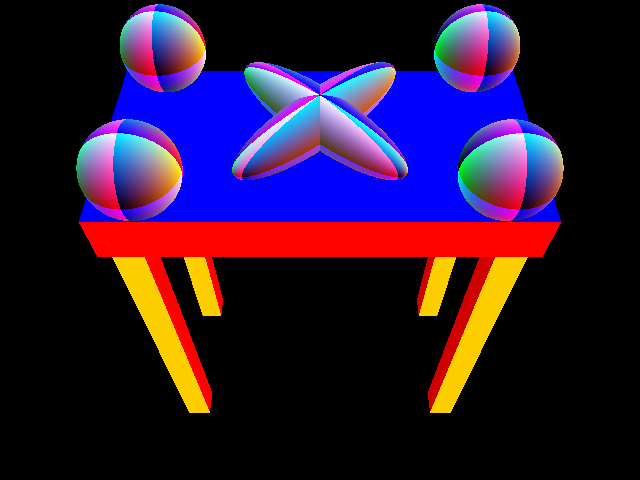
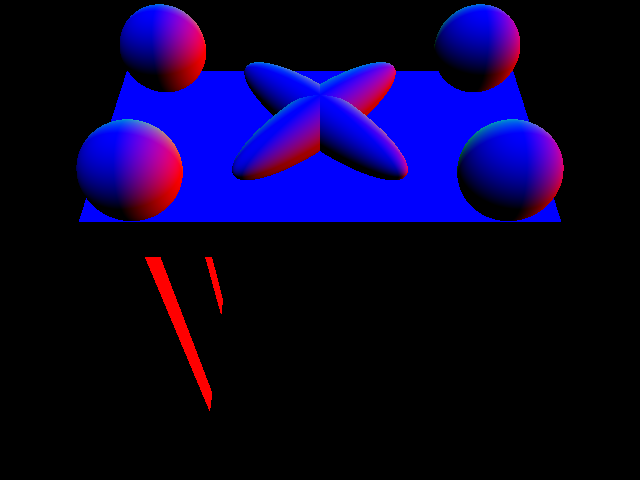
Normals should work correctly now

diff --git a/RayTracer/src/primitives/Triangle.java b/RayTracer/src/primitives/Triangle.java
@@ -49,11 +49,7 @@ public class Triangle extends Primitive {
 				&& isToTheLeftFromLine(2, 1, intersectionPoint)
 				&& isToTheLeftFromLine(0, 2, intersectionPoint);
 		if (isInside) {
-			Vector3 transformedIntersectionPoint = new Vector3(intersectionPoint);
-			Vector3 transformedNormal = new Vector3(this.normal);
-			//this.transformIntersectionObjectsToWorld(transformedIntersectionPoint, transformedNormal);
 			return new IntersectionInfo(distance, intersectionPoint, this.normal);
-			//return new IntersectionInfo(distance, transformedIntersectionPoint, transformedNormal);
 		} else {
 			return new IntersectionInfo(Double.POSITIVE_INFINITY, null, null);
 		}

diff --git a/RayTracer/src/primitives/Sphere.java b/RayTracer/src/primitives/Sphere.java
@@ -61,7 +61,8 @@ public class Sphere extends Primitive {
 		
 		Vector3 intersectionPoint = theRay.origin.add(theRay.direction
 				.multiply(resultDistance));
-		//intersectionPoint = transformVector(intersectionPoint, 1, this.transformationToWorldCoordiantes);
+		intersectionPoint = transformVector(intersectionPoint, 1, this.transformationToWorldCoordiantes);
+		intersectionPoint = transformVector(intersectionPoint, 1, this.transformationToWorldCoordiantes.inverse());
 		Vector3 normal = intersectionPoint.subtract(this.center);
 		normal.normalize();
 		Matrix transformationForNormal = this.transformationToWorldCoordiantes.inverse().transpose();

diff --git a/RayTracer/src/structures/Color.java b/RayTracer/src/structures/Color.java
@@ -23,10 +23,16 @@ public class Color {
 	public Color(double redPercent, double greenPercent, double bluePercent) {
 		if (redPercent > 1)
 			redPercent = 1;
+		if (redPercent < 0)
+			redPercent = 0;
 		if (greenPercent > 1)
 			greenPercent = 1;
+		if (greenPercent < 0)
+			greenPercent = 0;
 		if (bluePercent > 1)
 			bluePercent = 1;
+		if (bluePercent < 0)
+			bluePercent = 0;
 		this.red = (int) (redPercent * 0xFF);
 		this.green = (int) (greenPercent * 0xFF);
 		this.blue = (int) (bluePercent * 0xFF);
